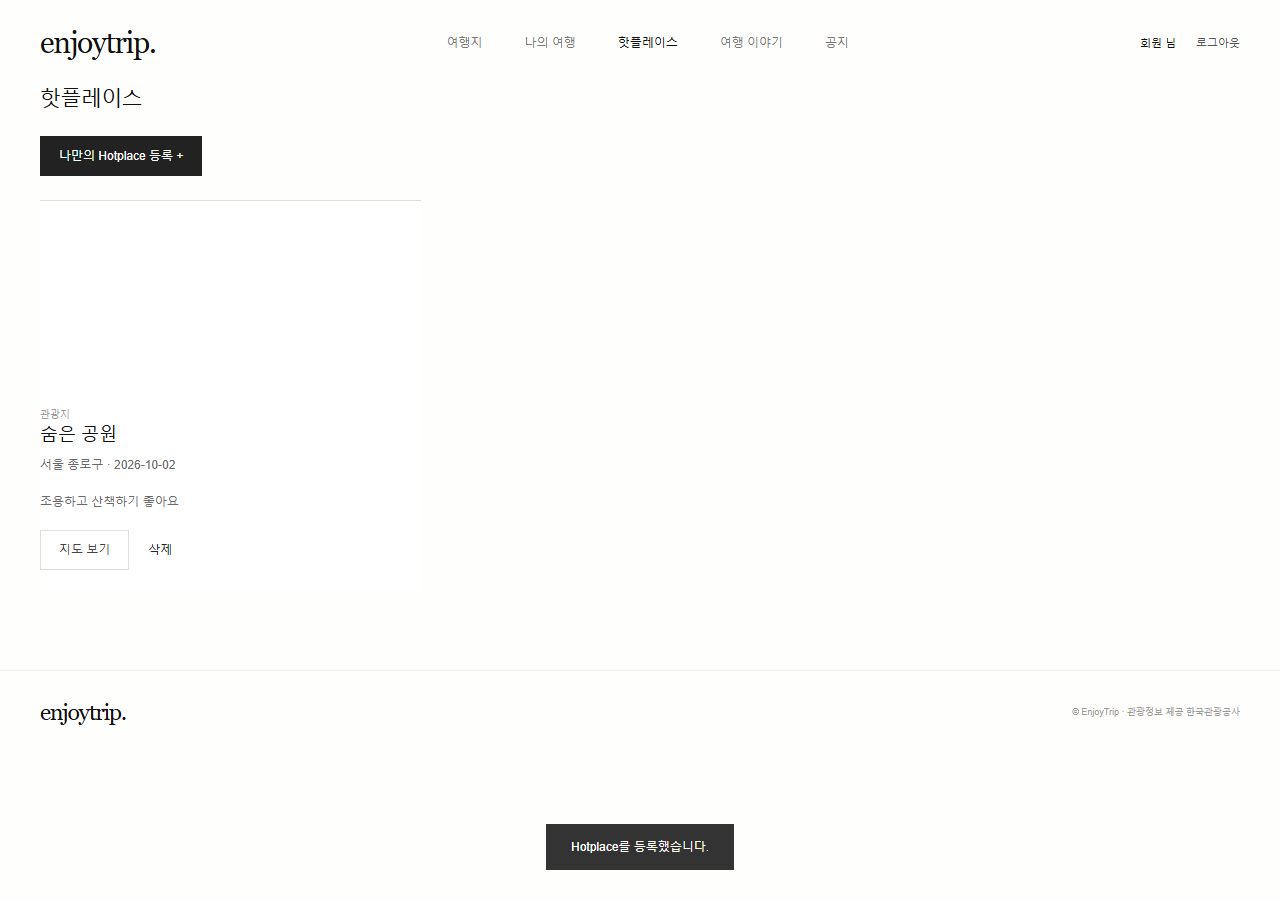
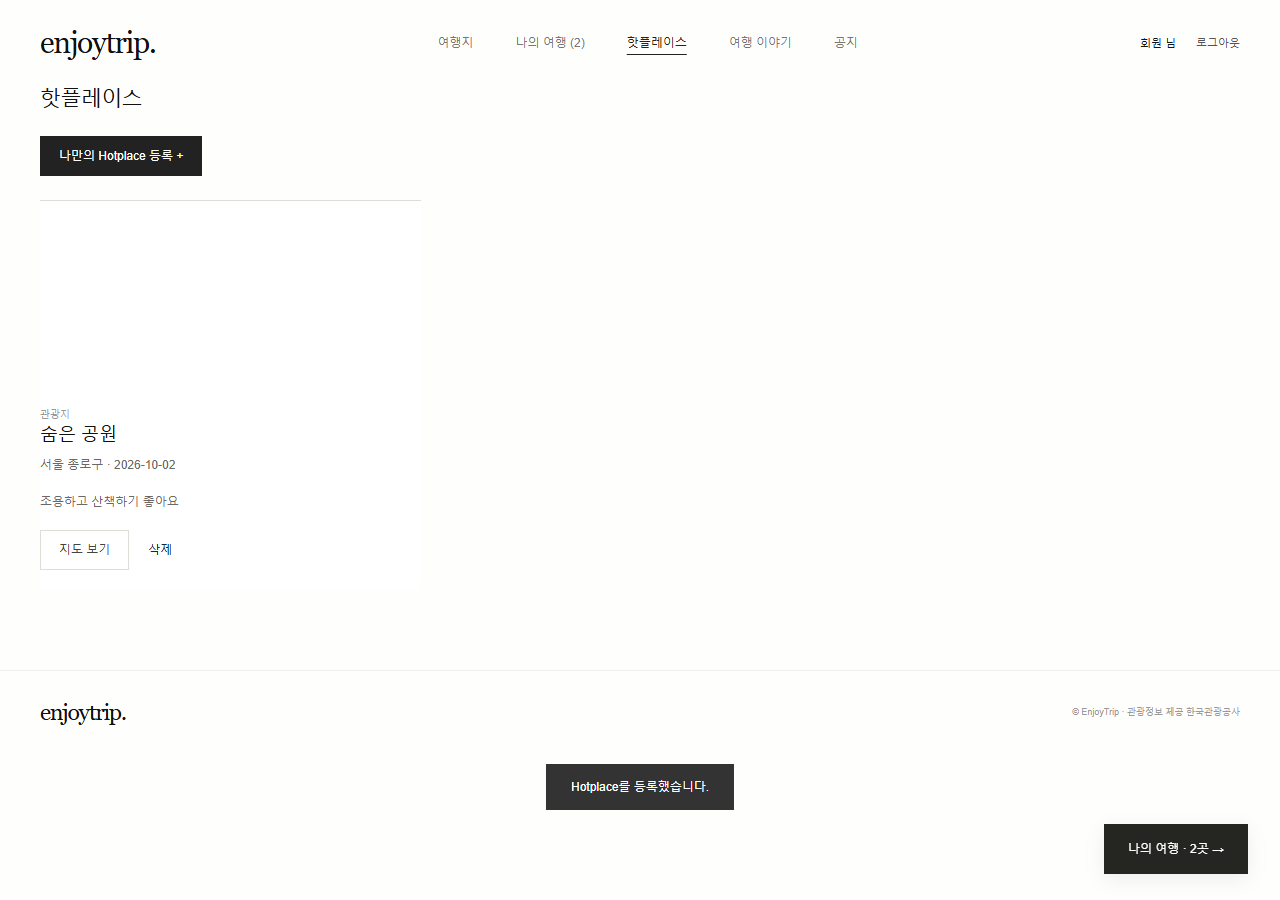
Improve search guidance and journey planning UX

diff --git a/js/main.js b/js/main.js
@@ -6,32 +6,42 @@ const $=s=>document.querySelector(s), esc=v=>String(v??'').replace(/[&<>"']/g,c=
 function read(key,fallback=[]){try{return JSON.parse(localStorage.getItem('enjoy.'+key))??fallback}catch{return fallback}}
 function save(key,value){try{localStorage.setItem('enjoy.'+key,JSON.stringify(value))}catch{throw Error('저장 공간이 부족하거나 브라우저 저장이 차단되었습니다.')}}
 const current=()=>read('members').find(m=>m.id===sessionStorage.getItem('enjoy.session'));
-let spots=[],route=[],page=1,total=0,request=0,dragIndex=null,live=false;let toastTimer;
+let spots=[],route=[],page=1,total=0,request=0,dragIndex=null,live=false;let toastTimer, pendingSpot=null, editingPlan=null, detailRequest=0, activeQuery=null;
+function draftKey(){return 'draft.'+(current()?.id||'guest')}
+function persistDraft(){if(current())save(draftKey(),{route,editingPlan,fields:Object.fromEntries(new FormData($('#plan-form')))});updateJourney()}
+function restoreDraft(){const d=read(draftKey(),{});route=d.route||[];editingPlan=d.editingPlan||null;for(const [key,value] of Object.entries(d.fields||{})){if($('#plan-form').elements[key])$('#plan-form').elements[key].value=value}updateJourney()}
+function updateJourney(){$('#journey-link').hidden=location.hash==='#plan'||!route.length;$('#journey-link').textContent=`나의 여행 · ${route.length}곳 →`;$('#plan-mode').textContent=editingPlan?'저장한 여행 수정':'새 여행계획';$('#plan-save').textContent=editingPlan?'변경사항 저장':'여행계획 저장';$('#plan-new').hidden=!route.length&&!editingPlan;document.querySelector('nav a[href="#plan"]').textContent=route.length?`나의 여행 (${route.length})`:'나의 여행'}
+$('#plan-form').addEventListener('input',persistDraft);
+$('#plan-new').onclick=()=>{if(route.length&&!confirm('현재 편집 내용을 비우고 새 계획을 만들까요?'))return;route=[];editingPlan=null;$('#plan-form').reset();persistDraft();renderRoute();renderSpots()};
 function toast(text){$('#toast').textContent=text;$('#toast').style.display='block';clearTimeout(toastTimer);toastTimer=setTimeout(()=>$('#toast').style.display='none',3500)}
 function modal(html){$('#modal-content').innerHTML=html;$('#modal').showModal()}
+$('#modal').addEventListener('close',()=>{pendingSpot=null;detailRequest++});
 $('#modal-close').onclick=()=>$('#modal').close();$('#modal').addEventListener('click',e=>{if(e.target===$('#modal')){const r=e.target.getBoundingClientRect();if(e.clientX<r.left||e.clientX>r.right||e.clientY<r.top||e.clientY>r.bottom)e.target.close()}});
 const empty=text=>`<div class="empty">${text}</div>`;
 const fields=(name,label,type='text',value='',extra='')=>`<label>${label}<input class="form-control" name="${name}" type="${type}" value="${esc(value)}" required ${extra}></label>`;
 function requireUser(){if(current())return true;auth('login');toast('로그인 후 이용해 주세요.');return false}
-function account(){const u=current();$('#account').innerHTML=u?`<a href="#profile">${esc(u.name)} 님</a><button class="btn btn-sm btn-outline-secondary" id="logout">로그아웃</button>`:`<button class="btn btn-sm" id="login">로그인</button><button class="btn btn-sm btn-primary" id="signup">회원가입</button>`;if(u)$('#logout').onclick=()=>{sessionStorage.removeItem('enjoy.session');route=[];account();renderRoute();renderPlans();if(location.hash==='#profile')navigate();toast('로그아웃했습니다.')};else{$('#login').onclick=()=>auth('login');$('#signup').onclick=()=>auth('signup')}}
+function account(){const u=current();$('#account').innerHTML=u?`<a href="#profile">${esc(u.name)} 님</a><button class="btn btn-sm btn-outline-secondary" id="logout">로그아웃</button>`:`<button class="btn btn-sm" id="login">로그인</button><button class="btn btn-sm btn-primary" id="signup">회원가입</button>`;if(u)$('#logout').onclick=()=>{persistDraft();sessionStorage.removeItem('enjoy.session');route=[];editingPlan=null;$('#plan-form').reset();updateJourney();account();renderRoute();renderPlans();if(location.hash==='#profile')navigate();toast('로그아웃했습니다.')};else{$('#login').onclick=()=>auth('login');$('#signup').onclick=()=>auth('signup')}}
 async function digest(password,salt){const bytes=new TextEncoder().encode(salt+password);return Array.from(new Uint8Array(await crypto.subtle.digest('SHA-256',bytes)),b=>b.toString(16).padStart(2,'0')).join('')}
-function auth(mode){const signup=mode==='signup',reset=mode==='reset';modal(`<h3>${signup?'회원가입':reset?'비밀번호 재설정':'다시 만나 반가워요'}</h3><p>${reset?'학습용 본인 확인: 가입한 아이디와 이메일을 입력하세요.':'여행의 즐거움을 함께 기록하세요.'}</p><form id="auth-form">${fields('id','아이디','text','','pattern="[A-Za-z0-9_]{4,20}" title="영문, 숫자, 밑줄 4~20자"')}${signup?fields('name','이름','text','','maxlength="30"'):''}${signup||reset?fields('email','이메일','email'):''}${fields('password',reset?'새 비밀번호':'비밀번호','password','','minlength="8" maxlength="100"')}${signup||reset?fields('confirm','비밀번호 확인','password','','minlength="8"'):''}<p id="auth-error" class="error" role="alert"></p><button class="btn btn-primary w-100">${signup?'가입하기':reset?'재설정':'로그인'}</button></form>${!signup&&!reset?'<div class="actions"><button id="go-signup" class="btn">회원가입</button><button id="go-reset" class="btn">비밀번호 찾기</button></div>':''}`);
+function auth(mode){const signup=mode==='signup',reset=mode==='reset';modal(`<h3>${signup?'회원가입':reset?'비밀번호 재설정':'다시 만나 반가워요'}</h3><p>${reset?'학습용 본인 확인: 가입한 아이디와 이메일을 입력하세요.':signup?'아이디는 영문·숫자·밑줄 4~20자, 비밀번호는 8자 이상입니다.':'여행의 즐거움을 함께 기록하세요.'}</p><form id="auth-form">${fields('id','아이디','text','','pattern="[A-Za-z0-9_]{4,20}" title="영문, 숫자, 밑줄 4~20자"')}${signup?fields('name','이름','text','','maxlength="30"'):''}${signup||reset?fields('email','이메일','email'):''}${fields('password',reset?'새 비밀번호':'비밀번호','password','','minlength="8" maxlength="100"')}${signup||reset?fields('confirm','비밀번호 확인','password','','minlength="8"'):''}<p id="auth-error" class="error" role="alert"></p><button class="btn btn-primary w-100">${signup?'가입하기':reset?'재설정':'로그인'}</button></form>${!signup&&!reset?'<div class="actions"><button id="go-signup" class="btn">회원가입</button><button id="go-reset" class="btn">비밀번호 찾기</button></div>':''}`);
 if($('#go-signup')){$('#go-signup').onclick=()=>auth('signup');$('#go-reset').onclick=()=>auth('reset')}
-$('#auth-form').onsubmit=async e=>{e.preventDefault();const f=Object.fromEntries(new FormData(e.target)),members=read('members');try{if(f.confirm&&f.password!==f.confirm)throw Error('비밀번호가 일치하지 않습니다.');let member=members.find(m=>m.id===f.id);if(signup){if(member)throw Error('이미 사용 중인 아이디입니다.');const salt=crypto.randomUUID();member={id:f.id,name:f.name.trim(),email:f.email.trim().toLowerCase(),salt,password:await digest(f.password,salt)};if(!member.name)throw Error('이름을 입력하세요.');members.push(member);save('members',members)}else if(reset){if(!member||member.email!==f.email.trim().toLowerCase())throw Error('아이디와 이메일을 확인하세요.');member.salt=crypto.randomUUID();member.password=await digest(f.password,member.salt);save('members',members)}else if(!member||member.password!==await digest(f.password,member.salt))throw Error('아이디 또는 비밀번호가 올바르지 않습니다.');if(!reset)sessionStorage.setItem('enjoy.session',member.id);$('#modal').close();account();toast(reset?'비밀번호를 재설정했습니다.':signup?'가입을 환영합니다!':'로그인했습니다.');navigate()}catch(error){$('#auth-error').textContent=error.message}}}
+$('#auth-form').onsubmit=async e=>{e.preventDefault();const f=Object.fromEntries(new FormData(e.target)),members=read('members');try{if(f.confirm&&f.password!==f.confirm)throw Error('비밀번호가 일치하지 않습니다.');let member=members.find(m=>m.id===f.id);if(signup){if(member)throw Error('이미 사용 중인 아이디입니다.');const salt=crypto.randomUUID();member={id:f.id,name:f.name.trim(),email:f.email.trim().toLowerCase(),salt,password:await digest(f.password,salt)};if(!member.name)throw Error('이름을 입력하세요.');members.push(member);save('members',members)}else if(reset){if(!member||member.email!==f.email.trim().toLowerCase())throw Error('아이디와 이메일을 확인하세요.');member.salt=crypto.randomUUID();member.password=await digest(f.password,member.salt);save('members',members)}else if(!member||member.password!==await digest(f.password,member.salt))throw Error('아이디 또는 비밀번호가 올바르지 않습니다.');if(!reset)sessionStorage.setItem('enjoy.session',member.id);$('#modal').close();if(!reset)restoreDraft();account();if(pendingSpot&&!reset){const selected=pendingSpot;pendingSpot=null;addRoute(selected)}toast(reset?'비밀번호를 재설정했습니다.':signup?'가입을 환영합니다!':'로그인했습니다.');navigate()}catch(error){$('#auth-error').textContent=error.message}}}
 function profile(){const u=current();if(!u){$('#profile-content').innerHTML=empty('로그인 후 내 정보를 확인할 수 있습니다.');return}$('#profile-content').innerHTML=`<h3>내 정보</h3><p>아이디: ${esc(u.id)}</p><form id="profile-form">${fields('name','이름','text',u.name,'maxlength="30"')}${fields('email','이메일','email',u.email)}<label>새 비밀번호 (변경할 때만 입력)<input name="password" type="password" minlength="8" class="form-control"></label><button class="btn btn-primary">정보 수정</button><button type="button" id="withdraw" class="btn btn-outline-danger">회원 탈퇴</button></form>`;$('#profile-form').onsubmit=async e=>{e.preventDefault();try{const f=Object.fromEntries(new FormData(e.target)),members=read('members'),m=members.find(m=>m.id===u.id);m.name=f.name.trim();if(!m.name)throw Error('이름을 입력하세요.');m.email=f.email.toLowerCase();if(f.password){m.salt=crypto.randomUUID();m.password=await digest(f.password,m.salt)}save('members',members);account();toast('회원정보를 수정했습니다.')}catch(err){toast(err.message)}};$('#withdraw').onclick=()=>{if(!confirm('탈퇴하면 회원정보와 개인 여행계획이 삭제됩니다. 탈퇴하시겠습니까?'))return;try{save('members',read('members').filter(m=>m.id!==u.id));save('plans',read('plans').filter(p=>p.owner!==u.id));sessionStorage.removeItem('enjoy.session');route=[];account();location.hash='explore';toast('탈퇴했습니다.')}catch(err){toast(err.message)}}}
 $('#region').innerHTML='<option value="">전국</option>'+regions.map(r=>`<option value="${r[0]}">${r[1]}</option>`).join('');$('#category').innerHTML='<option value="">모든 유형</option>'+categories.map(r=>`<option value="${r[0]}">${r[1]}</option>`).join('');
-let districtRequest=0;$('#region').onchange=async()=>{const id=++districtRequest;$('#district').innerHTML='<option value="">전체</option>';if(!$('#region').value)return;try{const result=await tourAPI('ldongCode2',{lDongRegnCd:$('#region').value,lDongListYn:'N',numOfRows:100});if(id!==districtRequest)return;$('#district').innerHTML+=result.items.map(r=>`<option value="${esc(r.code||r.lDongSignguCd)}">${esc(r.name||r.lDongSignguNm)}</option>`).join('')}catch{}};
+$('#district').disabled=true;
+let districtRequest=0;$('#region').onchange=async()=>{const id=++districtRequest;$('#district').disabled=true;$('#district').innerHTML='<option value="">'+($('#region').value?'불러오는 중…':'지역을 먼저 선택하세요')+'</option>';if(!$('#region').value)return;try{const result=await tourAPI('ldongCode2',{lDongRegnCd:$('#region').value,lDongListYn:'N',numOfRows:100});if(id!==districtRequest)return;$('#district').innerHTML='<option value="">전체</option>';$('#district').disabled=false;$('#district').innerHTML+=result.items.map(r=>`<option value="${esc(r.code||r.lDongSignguCd)}">${esc(r.name||r.lDongSignguNm)}</option>`).join('')}catch{if(id===districtRequest){$('#district').innerHTML='<option value="">시군구를 불러오지 못했습니다</option>';toast('지역 전체로 검색할 수 있습니다. 시군구 조회는 지역을 다시 선택해 주세요.')}}};
 
 function typeName(s){return categories.find(c=>String(c[0])===String(s.contenttypeid))?.[1]||'여행지'}
-function renderSpots(){ $('#result-count').textContent=`발견한 장소 ${total}곳`;$('#spots').innerHTML=spots.length?spots.map((s,i)=>`<article class="spot-card">${s.firstimage?`<img class="spot-art" src="${esc(s.firstimage)}" alt="${esc(s.title)}" loading="lazy" referrerpolicy="no-referrer">`:`<div class="spot-index" aria-hidden="true">${String(i+1).padStart(2,'0')}</div>`}<div class="spot-copy"><span class="badge-type">${typeName(s)}</span><h3><button type="button" class="spot-title" data-detail="${i}">${esc(s.title)}</button></h3><p>${esc(s.addr1||'주소 정보 없음')}</p><button class="btn btn-primary" data-add="${i}">여행에 추가</button></div></article>`).join(''):empty('검색 결과가 없습니다. 다른 지역이나 검색어를 선택해 보세요.');$('#more').hidden=!live||spots.length>=total;$('#spots').querySelectorAll('[data-detail]').forEach(b=>b.onclick=()=>detail(spots[b.dataset.detail]));$('#spots').querySelectorAll('[data-add]').forEach(b=>b.onclick=()=>addRoute(spots[b.dataset.add]));if(map)updateMap(spots.map(s=>({...s,x:Number(s.mapx),y:Number(s.mapy),label:s.title,address:s.addr1})));$('#spots').querySelectorAll('img').forEach(img=>img.onerror=()=>{img.removeAttribute('src');img.alt='사진 준비 중'})}
-async function search(append=false,near=null){const id=++request;$('#data-status').textContent='관광정보를 불러오고 있습니다…';const buttons=$('#search').querySelectorAll('button');buttons.forEach(b=>b.disabled=true);$('#more').disabled=true;if(!append)page=1;const region=$('#region').value,category=$('#category').value,keyword=$('#keyword').value.trim();let params={pageNo:page};if(region)params.lDongRegnCd=region;if($('#district').value)params.lDongSignguCd=$('#district').value;if(category)params.contentTypeId=category;let method='areaBasedList2';if(keyword){method='searchKeyword2';params.keyword=keyword}if(near){method='locationBasedList2';params={pageNo:1,mapX:near.lng,mapY:near.lat,radius:2000,...(category?{contentTypeId:category}:{})}}
-try{const result=await tourAPI(method,params);if(id!==request)return;spots=append?[...spots,...result.items]:result.items;total=result.total;live=true;$('#data-status').textContent='한국관광공사 실시간 관광정보'}catch(err){if(id!==request)return;live=false;spots=samples.filter(s=>(!region||s.region===region)&&(!category||s.contenttypeid===category)&&(!keyword||s.title.includes(keyword)||s.addr1.includes(keyword)));if(near){spots=spots.filter(s=>{const dy=(s.mapy-near.lat)*111,dx=(s.mapx-near.lng)*111*Math.cos(near.lat*Math.PI/180);return Math.hypot(dx,dy)<=2})}if($('#district').value)spots=[];total=spots.length;$('#data-status').textContent='샘플 모드 · API 연결 실패, 실제 조회 결과가 아닙니다.'}finally{if(id===request){renderSpots();buttons.forEach(b=>b.disabled=false);$('#more').disabled=false}}}
+function renderSpots(){ $('#result-count').textContent=`발견한 장소 ${total}곳`;$('#spots').innerHTML=spots.length?spots.map((s,i)=>`<article class="spot-card">${s.firstimage?`<img class="spot-art" src="${esc(s.firstimage)}" alt="${esc(s.title)}" loading="lazy" referrerpolicy="no-referrer">`:`<div class="spot-index" aria-hidden="true">${String(i+1).padStart(2,'0')}</div>`}<div class="spot-copy"><span class="badge-type">${typeName(s)}</span><h3><button type="button" class="spot-title" data-detail="${i}">${esc(s.title)}</button></h3><p>${esc(s.addr1||'주소 정보 없음')}</p><button class="btn btn-primary" data-add="${i}" ${route.some(r=>r.contentid===s.contentid)?'disabled':''}>${route.some(r=>r.contentid===s.contentid)?'추가됨 ✓':'여행에 추가 +'}</button></div></article>`).join(''):empty('검색 결과가 없습니다. 다른 지역이나 검색어를 선택해 보세요.');$('#more').hidden=!live||spots.length>=total;$('#spots').querySelectorAll('[data-detail]').forEach(b=>b.onclick=()=>detail(spots[b.dataset.detail]));$('#spots').querySelectorAll('[data-add]').forEach(b=>b.onclick=()=>addRoute(spots[b.dataset.add]));if(map)updateMap(spots.map(s=>({...s,x:Number(s.mapx),y:Number(s.mapy),label:s.title,address:s.addr1})));$('#spots').querySelectorAll('img').forEach(img=>img.onerror=()=>{img.removeAttribute('src');img.alt='사진 준비 중'})}
+async function search(append=false,near=null){const id=++request;$('#spots').setAttribute('aria-busy','true');$('#data-status').textContent='관광정보를 불러오고 있습니다…';const buttons=$('#search').querySelectorAll('button');buttons.forEach(b=>b.disabled=true);$('#more').disabled=true;if(!append)page=1;const region=$('#region').value,category=$('#category').value,keyword=$('#keyword').value.trim();let params={pageNo:page,arrange:'A'};if(region)params.lDongRegnCd=region;if($('#district').value)params.lDongSignguCd=$('#district').value;if(category)params.contentTypeId=category;let method='areaBasedList2';if(keyword){method='searchKeyword2';params.keyword=keyword}if(near){method='locationBasedList2';params={pageNo:page,mapX:near.lng,mapY:near.lat,radius:2000,arrange:'E',...(category?{contentTypeId:category}:{})}}
+if(append&&activeQuery){method=activeQuery.method;params={...activeQuery.params,pageNo:page}}else{activeQuery={method,params:{...params}};const summary=[near?'내 주변 2km':$('#region').selectedOptions[0].textContent,$('#district').value?$('#district').selectedOptions[0].textContent:'',category?$('#category').selectedOptions[0].textContent:'',keyword&&!near?`“${keyword}”`:''].filter(Boolean).join(' · ');$('#search-summary').textContent=summary;$('#search-context').hidden=!near&&!region&&!category&&!keyword}
+try{const result=await tourAPI(method,params);if(id!==request)return;spots=append?[...spots,...result.items]:result.items;total=result.total;live=true;$('#data-status').textContent='한국관광공사 실시간 관광정보'}catch(err){if(id!==request)return;if(append){page=Math.max(1,page-1);$('#data-status').textContent='추가 결과를 불러오지 못했습니다. 다시 시도해 주세요.';return}live=false;spots=samples.filter(s=>(!region||s.region===region)&&(!category||s.contenttypeid===category)&&(!keyword||s.title.includes(keyword)||s.addr1.includes(keyword)));if(near){spots=spots.filter(s=>{const dy=(s.mapy-near.lat)*111,dx=(s.mapx-near.lng)*111*Math.cos(near.lat*Math.PI/180);return Math.hypot(dx,dy)<=2})}if($('#district').value)spots=[];total=spots.length;$('#data-status').textContent='샘플 모드 · API 연결 실패, 실제 조회 결과가 아닙니다.'}finally{if(id===request){renderSpots();$('#spots').setAttribute('aria-busy','false');buttons.forEach(b=>b.disabled=false);$('#district').dispatchEvent(new Event('change'));$('#more').disabled=false}}}
+$('#search-reset').onclick=()=>{$('#search').reset();$('#region').dispatchEvent(new Event('change'));$('#category').dispatchEvent(new Event('change'));search()};
 $('#search').onsubmit=e=>{e.preventDefault();search()};$('#more').onclick=()=>{page++;search(true)};$('#nearby').onclick=()=>{if(!navigator.geolocation)return toast('이 브라우저는 위치 조회를 지원하지 않습니다.');navigator.geolocation.getCurrentPosition(p=>search(false,{lat:p.coords.latitude,lng:p.coords.longitude}),()=>toast('위치 권한을 허용해 주세요. 지역 검색은 계속 이용할 수 있습니다.'),{timeout:10000})};
-async function detail(s){modal(`<h3>${esc(s.title)}</h3>${s.firstimage?`<img class="detail-photo" src="${esc(s.firstimage)}" alt="${esc(s.title)}">`:''}<p>${esc(s.addr1)}</p><p id="detail-text">${esc(s.overview||'상세정보를 불러오는 중입니다…')}</p><div class="actions"><button id="detail-add" class="btn btn-primary">여행에 추가</button><a class="btn btn-outline-secondary" target="_blank" rel="noopener" href="https://map.kakao.com/link/search/${encodeURIComponent(s.title)}">카카오맵에서 보기 ↗</a></div>`);$('#detail-add').onclick=()=>addRoute(s);if(!s.sample)try{const r=await tourAPI('detailCommon2',{contentId:s.contentid});if($('#detail-text'))$('#detail-text').textContent=(r.items[0]?.overview||'제공된 상세 설명이 없습니다.').replace(/<[^>]*>/g,' ')}catch{if($('#detail-text'))$('#detail-text').textContent='상세정보를 불러오지 못했습니다. 지도에서 확인해 주세요.'}}
-function addRoute(s){if(!requireUser())return;if(route.some(r=>r.contentid===s.contentid))return toast('이미 여행에 추가한 장소입니다.');route.push(s);renderRoute();toast('나의 여행에 추가했습니다.')}
-function renderRoute(){$('#route-list').innerHTML=route.length?route.map((s,i)=>`<li draggable="true" data-index="${i}"><b>${i+1}</b><span>${esc(s.title)}</span><button type="button" class="btn" data-up="${i}" aria-label="위로 이동">↑</button><button type="button" class="btn" data-down="${i}" aria-label="아래로 이동">↓</button><button type="button" class="btn" data-remove="${i}" aria-label="경로에서 제거">×</button></li>`).join(''):empty('아직 추가한 여행지가 없습니다. 여행지 탐색에서 장소를 추가해 주세요.');for(const [action,delta]of[['up',-1],['down',1]])$('#route-list').querySelectorAll(`[data-${action}]`).forEach(b=>b.onclick=()=>{const i=Number(b.dataset[action]),j=i+delta;if(j>=0&&j<route.length){[route[i],route[j]]=[route[j],route[i]];renderRoute()}});$('#route-list').querySelectorAll('[data-remove]').forEach(b=>b.onclick=()=>{route.splice(Number(b.dataset.remove),1);renderRoute()});$('#route-list').querySelectorAll('li').forEach(li=>{li.ondragstart=e=>{dragIndex=Number(li.dataset.index);e.dataTransfer.setData('text/plain',String(dragIndex))};li.ondragover=e=>e.preventDefault();li.ondrop=e=>{e.preventDefault();if(dragIndex===null)return;const [s]=route.splice(dragIndex,1);route.splice(Number(li.dataset.index),0,s);dragIndex=null;renderRoute()};li.ondragend=()=>dragIndex=null})}
-$('#plan-form').onsubmit=e=>{e.preventDefault();if(!requireUser())return;if(!route.length)return toast('여행지를 한 곳 이상 추가하세요.');try{const f=Object.fromEntries(new FormData(e.target));save('plans',[...read('plans'),{...f,id:crypto.randomUUID(),owner:current().id,route:[...route]}]);renderPlans();toast('여행계획을 저장했습니다.')}catch(err){toast(err.message)}};
-function renderPlans(){const plans=read('plans').filter(p=>p.owner===current()?.id);$('#saved-plans').innerHTML=plans.length?plans.map(p=>`<article class="tile"><h3>${esc(p.title)}</h3><p>${esc(p.date)} · ${Number(p.budget).toLocaleString()}원</p><p>${p.route.map(r=>esc(r.title)).join(' → ')}</p><p>${esc(p.memo)}</p><button class="btn btn-outline-secondary" data-load="${p.id}">불러오기</button> <button class="btn" data-delete-plan="${p.id}">삭제</button></article>`).join(''):empty('저장한 여행계획이 없습니다.');$('#saved-plans').querySelectorAll('[data-load]').forEach(b=>b.onclick=()=>{const p=plans.find(p=>p.id===b.dataset.load);route=[...p.route];for(const key of ['title','date','budget','memo'])$('#plan-form').elements[key].value=p[key];renderRoute();toast('불러왔습니다. 저장하면 새 계획으로 추가됩니다.')});$('#saved-plans').querySelectorAll('[data-delete-plan]').forEach(b=>b.onclick=()=>{if(confirm('여행계획을 삭제할까요?')){save('plans',read('plans').filter(p=>p.id!==b.dataset.deletePlan));renderPlans()}})}
+async function detail(s){const ticket=++detailRequest;if(map&&Number(s.mapy)&&Number(s.mapx)){map.setLevel(4);map.panTo(new kakao.maps.LatLng(Number(s.mapy),Number(s.mapx)))}modal(`<h3>${esc(s.title)}</h3>${s.firstimage?`<img class="detail-photo" src="${esc(s.firstimage)}" alt="${esc(s.title)}">`:''}<p>${esc(s.addr1)}</p><p id="detail-text">${esc(s.overview||'상세정보를 불러오는 중입니다…')}</p><div class="actions"><button id="detail-add" class="btn btn-primary">여행에 추가</button><a class="btn btn-outline-secondary" target="_blank" rel="noopener" href="https://map.kakao.com/link/search/${encodeURIComponent(s.title)}">카카오맵에서 보기 ↗</a></div>`);$('#detail-add').textContent=route.some(r=>r.contentid===s.contentid)?'추가됨 ✓':'여행에 추가 +';$('#detail-add').disabled=route.some(r=>r.contentid===s.contentid);$('#detail-add').onclick=()=>addRoute(s);if(!s.sample)try{const r=await tourAPI('detailCommon2',{contentId:s.contentid});if(ticket===detailRequest&&$('#modal').open&&$('#detail-text'))$('#detail-text').textContent=(r.items[0]?.overview||'제공된 상세 설명이 없습니다.').replace(/<[^>]*>/g,' ')}catch{if(ticket===detailRequest&&$('#modal').open&&$('#detail-text'))$('#detail-text').textContent='상세정보를 불러오지 못했습니다. 지도에서 확인해 주세요.'}}
+function addRoute(s){if(!current()){pendingSpot=s;auth('login');toast('로그인하면 선택한 장소를 여행에 추가합니다.');return;}if(route.some(r=>r.contentid===s.contentid))return toast('이미 여행에 추가한 장소입니다.');route.push(s);persistDraft();renderRoute();renderSpots();if($('#detail-add')){$('#detail-add').textContent='추가됨 ✓';$('#detail-add').disabled=true}toast('나의 여행에 추가했습니다.')}
+function renderRoute(){updateJourney();$('#route-list').innerHTML=route.length?route.map((s,i)=>`<li draggable="true" data-index="${i}"><b>${i+1}</b><span>${esc(s.title)}</span><button type="button" class="btn" data-up="${i}" aria-label="위로 이동" ${i===0?'disabled':''}>↑</button><button type="button" class="btn" data-down="${i}" aria-label="아래로 이동" ${i===route.length-1?'disabled':''}>↓</button><button type="button" class="btn" data-remove="${i}" aria-label="경로에서 제거">×</button></li>`).join(''):'<div class="empty">아직 추가한 장소가 없습니다.<br><a class="empty-link" href="#explore">여행지 찾아보기 →</a></div>';for(const [action,delta]of[['up',-1],['down',1]])$('#route-list').querySelectorAll(`[data-${action}]`).forEach(b=>b.onclick=()=>{const i=Number(b.dataset[action]),j=i+delta;if(j>=0&&j<route.length){[route[i],route[j]]=[route[j],route[i]];persistDraft();renderRoute()}});$('#route-list').querySelectorAll('[data-remove]').forEach(b=>b.onclick=()=>{route.splice(Number(b.dataset.remove),1);persistDraft();renderRoute();renderSpots()});$('#route-list').querySelectorAll('li').forEach(li=>{li.ondragstart=e=>{dragIndex=Number(li.dataset.index);e.dataTransfer.setData('text/plain',String(dragIndex))};li.ondragover=e=>e.preventDefault();li.ondrop=e=>{e.preventDefault();if(dragIndex===null)return;const [s]=route.splice(dragIndex,1);route.splice(Number(li.dataset.index),0,s);dragIndex=null;persistDraft();renderRoute()};li.ondragend=()=>dragIndex=null})}
+$('#plan-form').onsubmit=e=>{e.preventDefault();if(!requireUser())return;if(!route.length)return toast('여행지를 한 곳 이상 추가하세요.');try{const f=Object.fromEntries(new FormData(e.target));if(!f.title.trim())return toast('여행 이름을 입력하세요.');const entry={...f,title:f.title.trim(),id:editingPlan||crypto.randomUUID(),owner:current().id,route:[...route]},plans=read('plans');save('plans',editingPlan?plans.map(p=>p.id===editingPlan&&p.owner===current().id?entry:p):[entry,...plans]);editingPlan=entry.id;persistDraft();renderPlans();toast('여행계획을 저장했습니다.')}catch(err){toast(err.message)}};
+function renderPlans(){const plans=read('plans').filter(p=>p.owner===current()?.id);$('#saved-plans').innerHTML=plans.length?plans.map(p=>`<article class="tile"><h3>${esc(p.title)}</h3><p>${esc(p.date)} · ${Number(p.budget).toLocaleString()}원</p><p>${p.route.map(r=>esc(r.title)).join(' → ')}</p><p>${esc(p.memo)}</p><button class="btn btn-outline-secondary" data-load="${p.id}">불러오기</button> <button class="btn" data-delete-plan="${p.id}">삭제</button></article>`).join(''):empty('저장한 여행계획이 없습니다.');$('#saved-plans').querySelectorAll('[data-load]').forEach(b=>b.onclick=()=>{const p=plans.find(p=>p.id===b.dataset.load);route=[...p.route];editingPlan=p.id;for(const key of ['title','date','budget','memo'])$('#plan-form').elements[key].value=p[key];persistDraft();renderRoute();$('#plan-form').scrollIntoView({behavior:'smooth',block:'start'});toast('계획을 불러왔습니다. 수정 후 변경사항을 저장하세요.')});$('#saved-plans').querySelectorAll('[data-delete-plan]').forEach(b=>b.onclick=()=>{if(confirm('여행계획을 삭제할까요?')){save('plans',read('plans').filter(p=>p.id!==b.dataset.deletePlan));if(editingPlan===b.dataset.deletePlan){editingPlan=null;persistDraft()}renderPlans()}})}
 function renderHot(){const items=read('hot');$('#hot-list').innerHTML=items.length?items.map(h=>`<article class="tile">${h.photo?`<img src="${h.photo}" alt="${esc(h.title)}">`:''}<span class="badge-type">${esc(h.type)}</span><h3>${esc(h.title)}</h3><p>${esc(h.address)} · ${esc(h.date)}</p><p>${esc(h.memo)}</p><a class="btn btn-outline-secondary" href="https://map.kakao.com/link/search/${encodeURIComponent(h.address)}" target="_blank" rel="noopener">지도 보기</a>${current()?.id===h.owner?`<button class="btn" data-hot-delete="${h.id}">삭제</button>`:''}</article>`).join(''):empty('아직 등록된 Hotplace가 없습니다. 나만 아는 장소를 소개해 주세요.');$('#hot-list').querySelectorAll('[data-hot-delete]').forEach(b=>b.onclick=()=>{if(confirm('Hotplace를 삭제할까요?')){save('hot',read('hot').filter(h=>h.id!==b.dataset.hotDelete));renderHot()}})}
 $('#hot-add').onclick=()=>{if(!requireUser())return;modal(`<h3>나만의 Hotplace</h3><form id="hot-form">${fields('title','장소 이름','text','','maxlength="80"')}${fields('address','주소')}${fields('date','다녀온 날짜','date')}<label>장소 유형<select name="type" class="form-select"><option>관광지</option><option>음식점</option><option>숙박</option><option>문화시설</option><option>기타</option></select></label><label>사진 (이미지 2MB 이하)<input name="photo" class="form-control" type="file" accept="image/png,image/jpeg,image/webp"></label><label>상세 설명<textarea class="form-control" name="memo" required maxlength="2000"></textarea></label><button class="btn btn-primary">등록하기</button></form>`);$('#hot-form').onsubmit=async e=>{e.preventDefault();try{const f=new FormData(e.target),file=f.get('photo');let photo='';if(file.size){if(file.size>2*1024*1024||!['image/png','image/jpeg','image/webp'].includes(file.type))throw Error('PNG, JPEG, WebP 이미지 2MB 이하만 등록할 수 있습니다.');photo=await new Promise((resolve,reject)=>{const r=new FileReader();r.onload=()=>resolve(r.result);r.onerror=reject;r.readAsDataURL(file)})}const h=Object.fromEntries(f);delete h.photo;save('hot',[...read('hot'),{...h,photo,id:crypto.randomUUID(),owner:current().id}]);$('#modal').close();renderHot();toast('Hotplace를 등록했습니다.')}catch(err){toast(err.message)}}};
 if(!localStorage.getItem('enjoy.notices'))save('notices',[{id:'welcome',title:'EnjoyTrip에 오신 것을 환영합니다',body:'지역별 여행지를 검색하고 나만의 여행계획을 만들어 보세요. 이 서비스는 브라우저에 데이터를 저장하는 프론트엔드 학습용 프로젝트입니다.',author:'EnjoyTrip',owner:null,date:'2026-10-02'}]);
@@ -40,8 +50,8 @@ function postDetail(key,id){const p=read(key).find(p=>p.id===id);if(!p)return;mo
 function editPost(key,p=null){if(!requireUser())return;modal(`<h3>${key==='notices'?'공지사항':'여행 이야기'} ${p?'수정':'등록'}</h3>${key==='notices'?'<p>학습용으로 로그인한 회원 누구나 자신이 작성한 공지를 관리할 수 있습니다.</p>':''}<form id="post-form">${fields('title','제목','text',p?.title||'','maxlength="100"')}<label>내용<textarea name="body" class="form-control" required maxlength="5000" rows="8">${esc(p?.body||'')}</textarea></label><button class="btn btn-primary">저장하기</button></form>`);$('#post-form').onsubmit=e=>{e.preventDefault();try{const f=Object.fromEntries(new FormData(e.target));if(!f.title.trim()||!f.body.trim())throw Error('제목과 내용을 입력하세요.');const rows=read(key),post={...f,id:p?.id||crypto.randomUUID(),owner:current().id,author:current().name,date:new Date().toLocaleDateString('sv-SE')};save(key,p?rows.map(r=>r.id===p.id?post:r):[post,...rows]);$('#modal').close();renderPosts(key==='notices');toast('저장했습니다.')}catch(err){toast(err.message)}}}
 $('#post-add').onclick=()=>editPost('posts');$('#notice-add').onclick=()=>editPost('notices');$('#board-search').oninput=()=>renderPosts();
 const headings={explore:['EXPLORE KOREA','여행지','지역과 취향으로 찾아보는 나의 다음 여행지'],plan:['MY JOURNEY','나의 여행','발견한 장소를 연결하고 설레는 하루를 계획하세요'],hotplace:['HIDDEN GEMS','핫플레이스','여행자들이 직접 소개하는 숨은 보석'],board:['TRAVEL STORIES','여행 이야기','경험과 팁을 나누고 다음 여행의 영감을 찾아보세요'],notice:['NOTICE','공지사항','새로운 여행 소식과 이용 안내'],profile:['MY ACCOUNT','내 정보','나의 여행자 프로필을 확인하고 수정하세요']};
-function navigate(){const name=location.hash.slice(1) in headings?location.hash.slice(1):'explore';document.querySelectorAll('.view').forEach(v=>v.hidden=v.id!==name);document.querySelectorAll('nav a').forEach(a=>a.classList.toggle('active',a.hash==='#'+name));['#section-tag','#section-title','#section-desc'].forEach((s,i)=>$(s).textContent=headings[name][i]);$('.hero').hidden=name!=='explore';if(name==='plan'){renderRoute();renderPlans()}if(name==='hotplace')renderHot();if(name==='board')renderPosts();if(name==='notice')renderPosts(true);if(name==='profile')profile();if(name==='explore'&&map)setTimeout(()=>{map.relayout();renderSpots()},0)}
+function navigate(){const name=location.hash.slice(1) in headings?location.hash.slice(1):'explore';document.querySelectorAll('.view').forEach(v=>v.hidden=v.id!==name);document.querySelectorAll('nav a').forEach(a=>{a.classList.toggle('active',a.hash==='#'+name);if(a.hash==='#'+name)a.setAttribute('aria-current','page');else a.removeAttribute('aria-current')});['#section-tag','#section-title','#section-desc'].forEach((s,i)=>$(s).textContent=headings[name][i]);$('.hero').hidden=name!=='explore';$('#journey-link').hidden=name==='plan'||!route.length;if(name==='plan'){renderRoute();renderPlans()}if(name==='hotplace')renderHot();if(name==='board')renderPosts();if(name==='notice')renderPosts(true);if(name==='profile')profile();if(name==='explore'&&map)setTimeout(()=>{map.relayout();renderSpots()},0)}
 enhanceSelects(document.querySelectorAll('#search select'));
-window.onhashchange=navigate;account();navigate();search();
+window.onhashchange=()=>{navigate();window.scrollTo({top:0,behavior:'smooth'})};restoreDraft();account();navigate();search();
 loadKakaoMap().then(()=>{initMap('map');$('#map-status').textContent='카카오 지도 · 장소 선택 시 위치 확인';renderSpots()}).catch(()=>{$('#map').innerHTML='<div class="fallback"><h3>지도를 연결해 주세요</h3><p>카카오 지도 키와 도메인 설정이 필요합니다.</p></div>';$('#map-status').textContent='장소 상세에서 카카오맵을 열 수 있습니다.'});
 window.addEventListener('unhandledrejection',e=>{toast(e.reason?.message||'요청 처리 중 문제가 발생했습니다.');e.preventDefault()});

diff --git a/index.html b/index.html
@@ -3,10 +3,10 @@
 <body><header><a class="brand" href="#explore">enjoytrip.</a><nav aria-label="메인 메뉴"><a href="#explore">여행지</a><a href="#plan">나의 여행</a><a href="#hotplace">핫플레이스</a><a href="#board">여행 이야기</a><a href="#notice">공지</a></nav><div id="account"></div></header>
 <main><section class="hero"><div class="hero-copy"><h1>어디든, 나답게.</h1><p>마음이 머무는 곳을 발견하고<br>나만의 여행을 기록하세요.</p></div><div class="hero-visual"><img src="resources/coast.svg" alt="산과 바다가 만나는 해안 풍경 일러스트"></div></section>
 <div class="section-heading"><span id="section-tag" class="eyebrow">EXPLORE KOREA</span><h2 id="section-title">어디로 떠나볼까요?</h2><p id="section-desc">지역과 취향으로 찾아보는 나의 다음 여행지</p></div>
-<section id="explore" class="view"><form id="search" class="search-bar"><label>지역<select id="region" class="form-select"></select></label><label>시·군·구<select id="district" class="form-select"><option value="">전체</option></select></label><label>여행 유형<select id="category" class="form-select"></select></label><label>장소 이름<input id="keyword" class="form-control" placeholder="가고 싶은 장소를 검색하세요"></label><button class="btn btn-primary">검색하기</button><button type="button" class="btn btn-outline-secondary" id="nearby">내 주변</button></form><div class="result-line"><strong id="result-count"></strong><span id="data-status" role="status"></span></div><div class="explore-layout"><div id="spots" class="spot-list"></div><div class="map-wrap"><div class="map-title"><b>여행 지도</b></div><div id="map"></div><p id="map-status" class="small"></p></div></div><button id="more" class="btn btn-outline-secondary mt-3" hidden>더 보기</button></section>
-<section id="plan" class="view" hidden><div class="panel"><p>장소 카드의 ‘여행에 추가’를 눌러 경로를 만들어 보세요. 드래그 또는 화살표로 순서를 바꿀 수 있습니다.</p><form id="plan-form"><div class="form-grid"><label>여행 이름<input class="form-control" name="title" required maxlength="80" placeholder="나의 설레는 여행"></label><label>출발일<input class="form-control" name="date" type="date" required></label><label>여행경비 (원)<input class="form-control" name="budget" type="number" min="0" value="0" required></label></div><label>상세 계획<textarea class="form-control" name="memo" maxlength="2000" placeholder="일정별 시간, 이동 방법과 준비물을 적어보세요"></textarea></label><ol id="route-list"></ol><button class="btn btn-primary">여행계획 저장</button></form></div><h3 class="mt-4">저장한 여행</h3><div id="saved-plans" class="tile-grid"></div></section>
+<section id="explore" class="view"><form id="search" class="search-bar"><label>지역<select id="region" class="form-select"></select></label><label>시·군·구<select id="district" class="form-select"><option value="">지역을 먼저 선택하세요</option></select></label><label>여행 유형<select id="category" class="form-select"></select></label><label>장소 이름<input id="keyword" class="form-control" placeholder="가고 싶은 장소를 검색하세요"></label><button class="btn btn-primary">검색하기</button><button type="button" class="btn btn-outline-secondary" id="nearby">내 주변</button></form><div class="search-context" id="search-context" hidden><span id="search-summary"></span><button type="button" id="search-reset">조건 초기화</button></div><div class="result-line"><strong id="result-count"></strong><span id="data-status" role="status"></span></div><div class="explore-layout"><div id="spots" class="spot-list" aria-live="polite"></div><div class="map-wrap"><div class="map-title"><b>여행 지도</b></div><div id="map"></div><p id="map-status" class="small"></p></div></div><button id="more" class="btn btn-outline-secondary mt-3" hidden>더 보기</button></section>
+<section id="plan" class="view" hidden><div class="panel"><div class="plan-heading"><p id="plan-mode">새 여행계획</p><button type="button" id="plan-new" hidden>새 계획 만들기</button></div><p>장소를 추가하고 방문 순서를 정한 뒤 저장하세요. 드래그 또는 화살표로 순서를 바꿀 수 있습니다.</p><form id="plan-form"><div class="form-grid"><label>여행 이름<input class="form-control" name="title" required maxlength="80" placeholder="나의 설레는 여행"></label><label>출발일<input class="form-control" name="date" type="date" required></label><label>여행경비 (원)<input class="form-control" name="budget" type="number" min="0" value="0" required></label></div><label>상세 계획<textarea class="form-control" name="memo" maxlength="2000" placeholder="일정별 시간, 이동 방법과 준비물을 적어보세요"></textarea></label><ol id="route-list"></ol><button class="btn btn-primary" id="plan-save">여행계획 저장</button><p class="storage-note">계획은 이 브라우저에 저장됩니다.</p></form></div><h3 class="mt-4">저장한 여행</h3><div id="saved-plans" class="tile-grid"></div></section>
 <section id="hotplace" class="view" hidden><button class="btn btn-primary mb-4" id="hot-add">나만의 Hotplace 등록 +</button><div id="hot-list" class="tile-grid"></div></section>
 <section id="board" class="view" hidden><div class="board-toolbar"><input id="board-search" class="form-control" placeholder="제목 또는 내용 검색" aria-label="게시글 검색"><button class="btn btn-primary" id="post-add">글쓰기</button></div><div id="post-list"></div></section>
 <section id="notice" class="view" hidden><button class="btn btn-primary mb-3" id="notice-add">공지 등록</button><div id="notice-list"></div></section>
 <section id="profile" class="view" hidden><div id="profile-content" class="panel narrow"></div></section>
-</main><footer><a class="brand" href="#explore">enjoytrip.</a><small>© EnjoyTrip · 관광정보 제공 한국관광공사</small></footer><dialog id="modal"><button id="modal-close" type="button" class="close-button" aria-label="닫기">×</button><div id="modal-content"></div></dialog><div id="toast" role="status" aria-live="polite"></div><script type="module" src="js/main.js"></script></body></html>
+</main><a href="#plan" id="journey-link" class="journey-link" hidden></a><footer><a class="brand" href="#explore">enjoytrip.</a><small>© EnjoyTrip · 관광정보 제공 한국관광공사</small></footer><dialog id="modal"><button id="modal-close" type="button" class="close-button" aria-label="닫기">×</button><div id="modal-content"></div></dialog><div id="toast" role="status" aria-live="polite"></div><script type="module" src="js/main.js"></script></body></html>

diff --git a/css/style.css b/css/style.css
@@ -7,3 +7,5 @@ body{-webkit-font-smoothing:antialiased;background:#fefefd}header{padding:25px 4
 /* Minimal filter menus, with the same typography as the page. */
 .quiet-select{display:block;position:relative;margin-top:8px;color:#222}.select-trigger{width:100%;display:flex;align-items:center;justify-content:space-between;padding:12px 0;border:0;border-bottom:1px solid #deded9;background:transparent;text-align:left;font:inherit;font-size:12px;color:#333}.select-trigger::after{content:'';width:6px;height:6px;border-right:1px solid #777;border-bottom:1px solid #777;transform:rotate(45deg);margin:0 5px 4px 20px}.select-trigger[aria-expanded=true]::after{transform:rotate(225deg);margin-bottom:0}.select-options{position:absolute;top:100%;left:0;right:0;z-index:30;display:block;background:#fefefd;border:1px solid #e7e7e2;box-shadow:0 12px 28px #00000008;padding:7px;max-height:270px;overflow:auto;scrollbar-width:thin}.select-option{display:block;width:100%;padding:10px 12px;background:none;border:0;text-align:left;color:#777;font-size:12px}.select-option:hover,.select-option:focus-visible{background:#f2f2ee;color:#222;outline:0}.select-option[aria-selected=true]{color:#111;background:#f4f4f0}.spot-title{background:none;border:0;padding:0;color:inherit;font:inherit;text-align:left}.spot-title:hover{text-decoration:underline;text-underline-offset:4px}#nearby{border:0;padding:10px 0;color:#888;background:none;font-size:11px}.search-bar>.btn-primary{padding:10px 22px}.spot-card .btn-primary{margin-left:0;color:#777}.spot-card .btn-primary:hover{color:#111}
 .search-bar .filter-field{flex:1;font-size:11px;color:#777}.search-bar .filter-field .quiet-select{font-size:12px}@media(max-width:1100px){.search-bar .filter-field{flex:1 1 35%}}@media(max-width:700px){.search-bar .filter-field{flex-basis:40%}}
+/* Clear states and comfortable controls, retaining the quiet visual style. */
+.search-context{display:flex;align-items:center;justify-content:space-between;gap:16px;padding-top:18px;font-size:11px;color:#666}.search-context button,.plan-heading button{border:0;background:none;color:#666;font-size:11px;text-decoration:underline;text-underline-offset:4px;padding:10px 0}.select-trigger:disabled{color:#aaa;cursor:not-allowed}.select-trigger:disabled::after{opacity:.3}.spot-title{min-height:36px}.spot-card .btn{min-height:40px;font-size:11px}.spot-card .btn:disabled{color:#999;opacity:1}.spot-list[aria-busy=true]{opacity:.5;pointer-events:none}.journey-link{position:fixed;right:32px;bottom:26px;background:#252522;color:white;padding:16px 24px;z-index:40;font-size:12px;text-decoration:none;box-shadow:0 5px 20px #0001}.journey-link:hover{color:white;background:#444}.plan-heading{display:flex;align-items:center;justify-content:space-between;gap:20px}.plan-heading p{font-size:12px;color:#555;margin:0}.storage-note{font-size:11px;color:#999;margin:15px 0 0}.empty-link{display:inline-block;color:#333;margin-top:16px;text-underline-offset:5px}#route-list li .btn{min-width:40px;min-height:44px;padding:8px}.form-control:focus,.select-trigger:focus-visible{border-bottom-color:#222;outline:2px solid #b6b6ae;outline-offset:3px}nav a.active{color:#222;text-decoration:underline;text-underline-offset:7px!important}#toast{bottom:90px}dialog input,dialog .btn{min-height:44px}@media(max-width:700px){.journey-link{right:22px;bottom:18px;padding:14px 20px}.search-context{font-size:10px}.hero-visual{height:240px}.hero{margin-bottom:38px}.search-bar .btn-primary{min-height:44px}#toast{max-width:calc(100vw - 44px);width:max-content}.spot-card .btn{min-height:44px}}

diff --git a/js/select.js b/js/select.js
@@ -18,7 +18,7 @@ export function enhanceSelects(selects) {
     list.setAttribute('aria-label', label); wrap.append(trigger, list);
     const sync = () => {
       const text = select.selectedOptions[0]?.textContent || '전체';
-      trigger.textContent = text; trigger.setAttribute('aria-label', label + ': ' + text);
+      trigger.disabled = select.disabled; trigger.textContent = text; trigger.setAttribute('aria-label', label + ': ' + text);
       list.replaceChildren(...Array.from(select.options, (option, index) => {
         const item = document.createElement('button'); item.type = 'button'; item.className = 'select-option';
         item.textContent = option.textContent; item.setAttribute('role', 'option');
@@ -43,6 +43,6 @@ export function enhanceSelects(selects) {
       }
     };
     wrap.addEventListener('focusout', e => { if (e.relatedTarget && !wrap.contains(e.relatedTarget)) { trigger.setAttribute('aria-expanded', 'false'); list.hidden = true; } });
-    select.addEventListener('change', sync); new MutationObserver(sync).observe(select, { childList: true, subtree: true }); sync();
+    select.addEventListener('change', sync); new MutationObserver(sync).observe(select, { childList: true, subtree: true, attributes: true, attributeFilter: ['disabled'] }); sync();
   }
 }
